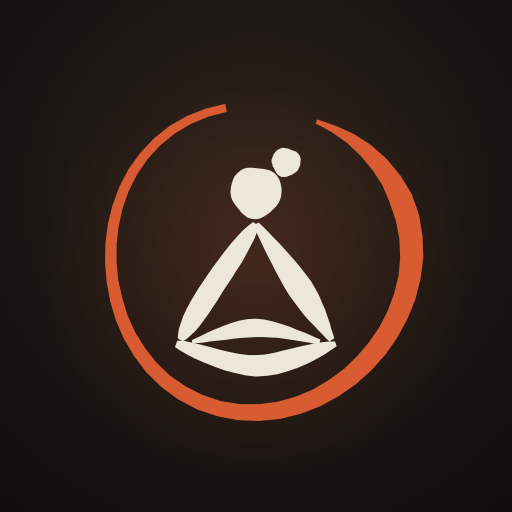
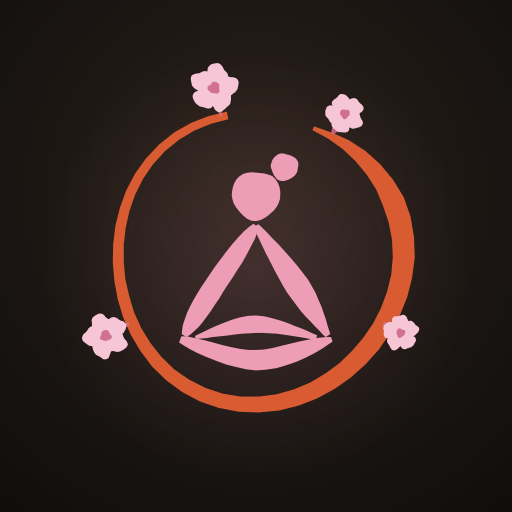
feat: pink figure and sakura growing off the ensō
The seated woman is now blossom pink, and four sakura sit on the ring —
two on short stems either side of the ensō's opening, two lower down.
Petals are round rather than tapered: at 60px a tapered petal collapses
into a spike, a round one still reads as a flower.

The in-app mark follows the icon exactly. A glyph draws in a single
colour, so the mark is split into four glyphs (ring, petals with stems,
flower centres, figure) and stacked as coloured layers by appMark().
The blossoms sit outside the ring and past the glyph's own 100x100 box,
so the stack is scaled to 88% to stop the top blossom clipping.

Changed region(s): [[0.1562, 0.125, 0.8438, 0.8438]]

diff --git a/index.html b/index.html
@@ -569,6 +569,17 @@ button.pill-x {
 .pattern-note .row-glyph { width: 22px; height: 22px; margin-top: 1px; }
 .pms-frame { border-left: 2px solid var(--accent-line); padding-left: 12px; margin: 10px 0 2px; color: var(--text-dim); font-style: italic; }
 
+/* ---------- app mark (matches the home-screen icon) ---------- */
+.app-mark { position: relative; display: inline-block; flex: none; }
+.app-mark > span { position: absolute; inset: 0; display: block; line-height: 0; }
+/* the sakura sit outside the ring, past the glyph's own 100x100 box, so the
+   whole mark is pulled in slightly to keep the top blossom from clipping */
+.app-mark svg { width: 100%; height: 100%; display: block; transform: scale(0.88); transform-origin: 50% 50%; }
+.am-ring { color: #D95B31; }
+.am-petal { color: #F7C6D6; }
+.am-heart { color: #D2708F; }
+.am-figure { color: #EE9DB6; }
+
 /* ---------- moon + long distance ---------- */
 .moon-disc { display: block; flex: none; }
 .moon-shadow { fill: rgba(255, 255, 255, 0.05); }
@@ -804,10 +815,36 @@ button.pill-x {
   add('lotus', { s: [{ p: [[50, 32], [58, 46], [50, 64], [42, 46], [50, 34]], w: 6 }, { p: [[24, 60], [34, 42], [47, 58]], w: 6 }, { p: [[76, 60], [66, 42], [53, 58]], w: 6 }, { p: [[26, 68], [50, 78], [74, 68]], w: 7 }] });
   add('meditate', { s: [{ p: [[30, 72], [36, 54], [50, 48], [64, 54], [70, 72]], w: 9 }, { p: [[26, 76], [74, 76]], w: 6 }], d: [[50, 32, 7.5]] });
   add('spiral', { s: [{ p: [[52, 48], [58, 54], [50, 60], [42, 52], [48, 40], [62, 40], [68, 58], [50, 72], [30, 60], [28, 38]], w: 6 }] });
-  /* the app mark: a woman seated in lotus, held inside an ensō. Same geometry
-     as icon-192/512, so the home-screen icon and the in-app mark are one thing. */
+  /* The app mark: a woman seated in lotus inside an ensō, with sakura growing
+     off the ring. Same geometry as icon-192/512, split into layers because the
+     mark is multi-coloured and a glyph only ever draws in one colour. */
+  const MARK_RING = { R: 38, w: 7, gap: 0.62, rot: -1.15, wob: 1.9 };
+  const MARK_BLOSSOMS = [
+    { deg: -104, size: 6.4, stem: 3.2 },
+    { deg: -58, size: 5.2, stem: 2.4 },
+    { deg: 152, size: 6.0, stem: 2.6 },
+    { deg: 28, size: 4.8, stem: 1.6 }
+  ];
+  const petalDots = [], heartDots = [], stemStrokes = [];
+  MARK_BLOSSOMS.forEach(b => {
+    const th = b.deg * Math.PI / 180;
+    const onRing = MARK_RING.R + 1;
+    const dist = onRing + b.stem + b.size * 0.55;
+    const cx = 50 + Math.cos(th) * dist, cy = 50 + Math.sin(th) * dist;
+    if (b.stem) {
+      stemStrokes.push({ p: [[50 + Math.cos(th) * (onRing - 1), 50 + Math.sin(th) * (onRing - 1)], [cx, cy]], w: 1.9, taper: 'both' });
+    }
+    for (let i = 0; i < 5; i++) {
+      const pt = th + 0.4 + i * (Math.PI * 2 / 5);
+      petalDots.push([cx + Math.cos(pt) * b.size * 0.56, cy + Math.sin(pt) * b.size * 0.56, b.size * 0.44]);
+    }
+    heartDots.push([cx, cy, b.size * 0.24]);
+  });
+
+  add('lotus-ring', { enso: MARK_RING });
+  add('lotus-blossoms', { s: stemStrokes, d: petalDots });
+  add('lotus-hearts', { d: heartDots });
   add('lotus-woman', {
-    enso: { R: 38, w: 7, gap: 0.62, rot: -1.15, wob: 1.9 },
     s: [
       { p: [[50, 42], [39, 58], [31, 71]], w: 6, taper: 'both' },
       { p: [[50, 42], [61, 58], [69, 71]], w: 6, taper: 'both' },
@@ -3033,6 +3070,21 @@ window.ATTUNE_MOON_CONTENT = {
     return window.Enso.svg(name, { size: size || 22, cls: cls });
   }
 
+  /* The full app mark, matching the home-screen icon: four stacked layers,
+     each drawn in its own colour (a glyph itself is single-colour). */
+  function appMark(size) {
+    var s = size || 34;
+    var layer = function (cls, glyph) {
+      return '<span class="' + cls + '">' + g(glyph, s) + '</span>';
+    };
+    return '<span class="app-mark" style="width:' + s + 'px;height:' + s + 'px">' +
+      layer('am-ring', 'lotus-ring') +
+      layer('am-petal', 'lotus-blossoms') +
+      layer('am-heart', 'lotus-hearts') +
+      layer('am-figure', 'lotus-woman') +
+      '</span>';
+  }
+
   function commit(next) {
     saveFailed = !E.save(next);
     state = next;
@@ -3840,7 +3892,7 @@ window.ATTUNE_MOON_CONTENT = {
 
     /* about + disclaimer */
     h += '<div class="glass-card"><div class="glass-row" style="border:none;padding:0 0 6px">' +
-      '<div class="row-glyph icon-accent">' + g('lotus-woman', 34) + '</div><div><strong>Attune</strong>' +
+      '<div class="row-glyph">' + appMark(38) + '</div><div><strong>Attune</strong>' +
       '<div class="t-small">A partner-side cycle companion — built for you, about her.</div></div></div>' +
       '<div class="t-small" style="color:var(--text-dim)">' + esc(C.general.disclaimer) + '</div></div>';
     return h;

diff --git a/sw.js b/sw.js
@@ -1,6 +1,6 @@
 /* Attune service worker — cache-first, fully offline. */
 'use strict';
-var CACHE = 'attune-v4';
+var CACHE = 'attune-v5';
 var ASSETS = ['./', './index.html', './manifest.json', './icon-192.png', './icon-512.png'];
 
 self.addEventListener('install', function (e) {
